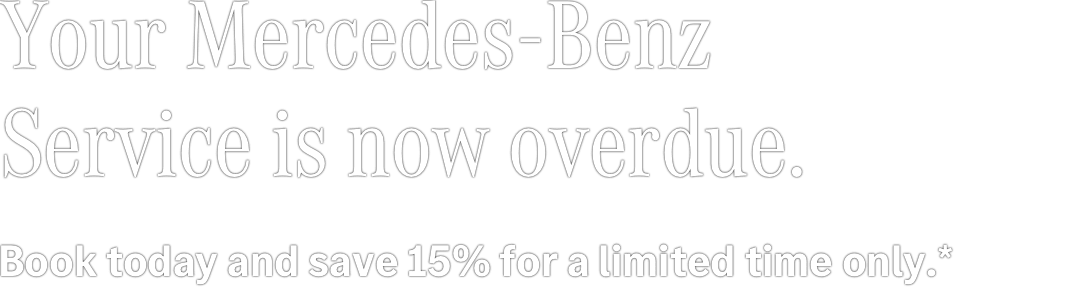
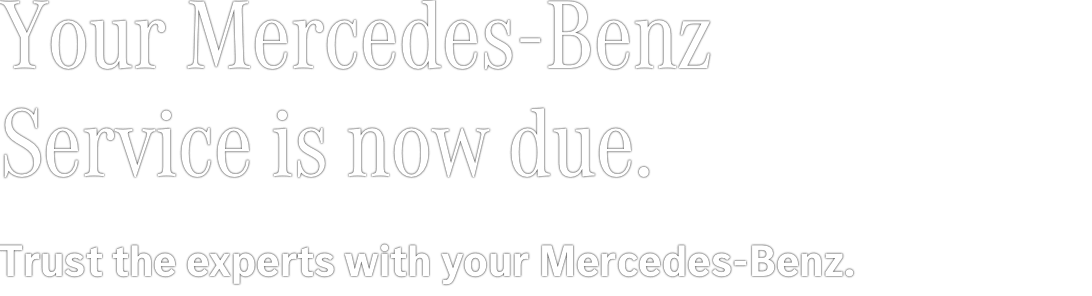
update

diff --git a/complete/mbrg/Salesforce/Service Reminder Email/index.html b/complete/mbrg/Salesforce/Service Reminder Email/index.html
@@ -273,13 +273,13 @@
                           </p>
                           <div class="mobile-hide" style="background: none;">
                             <h1 style="Margin: 0 0 24px; line-height: 1; color: #ffffff">
-                              <img src="images/hero-h1-d@2x.png" alt="Your Mercedes-Benz Service is now overdue." style="display: block; max-width: 100%; width: 100%;" width="546" border="0">
+                              <img src="images/hero-h1-d@2x.png" alt="Your Mercedes-Benz Service is now due." style="display: block; max-width: 100%; width: 100%;" width="546" border="0">
                             </h1>
                           </div>
                           <!--[if !mso]><!-->
                           <div class="mobile-show" style="display:none; max-height:0px; height:0; width:0; font-size:0; line-height:0; overflow:hidden; mso-hide:all;">
                             <h1 style="Margin: 0 0 24px; line-height: 1; color: #ffffff">
-                              <img src="images/hero-h1-m@3x.png" alt="Your Mercedes-Benz Service is now overdue." style="width:100%; display: block;" class="fluid" width="100%" border="0">
+                              <img src="images/hero-h1-m@3x.png" alt="Your Mercedes-Benz Service is now due." style="width:100%; display: block;" class="fluid" width="100%" border="0">
                             </h1>
                           </div>
                           <!--<![endif]-->
@@ -287,26 +287,19 @@
                             Hello <span style="color: deeppink">{Name}</span>
                           </p>
                           <p style="font-family: Arial, Helvetica, sans-serif; font-size: 14px; line-height: 20px; color: #ECECEC; Margin: 0 0 20px 0;">
-                            Our records show that your Mercedes‑Benz  is overdue its official&nbsp;Service.
+                            Our records show that your Mercedes&#8209;Benz Service is&nbsp;due.
                           </p>
                           <p style="font-family: Arial, Helvetica, sans-serif; font-size: 14px; line-height: 20px; color: #ECECEC; Margin: 0 0 20px 0;">
-                            Contact us today to take advantage of this exclusive offer and book your vehicle in with&nbsp;us:
-                          </p>
-                          <p style="font-family: Arial, Helvetica, sans-serif; font-size: 18px; line-height: 20px; color: #ffffff; Margin: 0 0 20px 0;">
-                            15% off your next Mercedes-Benz Service.*
+                            To find a suitable time please book online or call <span style="color: deeppink">{Retailer Number}</span>&nbsp;today.
                           </p>
                           <p style="font-family: Arial, Helvetica, sans-serif; font-size: 14px; line-height: 20px; color: #ECECEC; Margin: 0 0 20px 0;">
-                            Your Service includes a complimentary wash,
-                            vacuum and Vehicle Health Check to ensure your vehicle looks and runs at
-                            its&nbsp;best.
+                            By choosing Mercedes&#8209;Benz Retail Group, you’ll have peace of mind knowing that all work will be carried out by a trained technician using Mercedes&#8209;Benz&nbsp;GenuineParts.
                           </p>
                           <p style="font-family: Arial, Helvetica, sans-serif; font-size: 14px; line-height: 20px; color: #ECECEC; Margin: 0 0 20px 0;">
-                            This offer is only available for the next 30
-                            days, so don't delay, please book now using the link below or call
-                            <span style="color: deeppink">{Retailer Number}</span>.
+                            Your Service includes a complimentary wash, vacuum, and Vehicle Health Check to ensure your vehicle looks and runs at its&nbsp;best.
                           </p>
                           <p style="font-family: Arial, Helvetica, sans-serif; font-size: 14px; line-height: 20px; color: #ECECEC; Margin: 0 0 34px 0;">
-                            We look forward to seeing you soon.
+                            We look forward to seeing&nbsp;you.
                           </p>
                           <!-- !Hero button -->
                           <table role="presentation" class="btn" style="margin: 0;" cellspacing="0" cellpadding="0" border="0" align="left">
